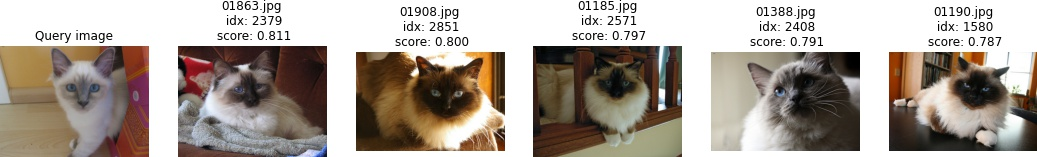
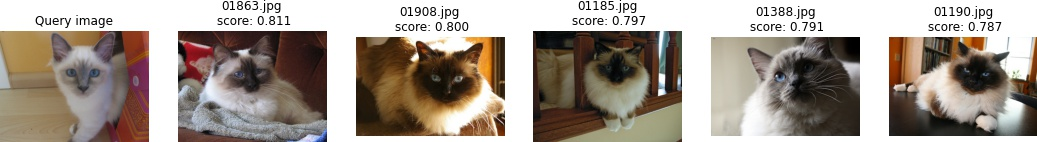
Adding images without redundant titles

diff --git a/demo.py b/demo.py
@@ -18,8 +18,8 @@ def demo():
 
 # run demo
 n = 5
-query_path = '../test_1/simple_image_retrieval_dataset/test-cases/cat.jpg'
-dataset_root = '../test_1/simple_image_retrieval_dataset/'
+query_path = 'simple_image_retrieval_dataset/test-cases/cat.jpg'
+#dataset_root = '../simple_image_retrieval_dataset/'
 demo()
 
 
